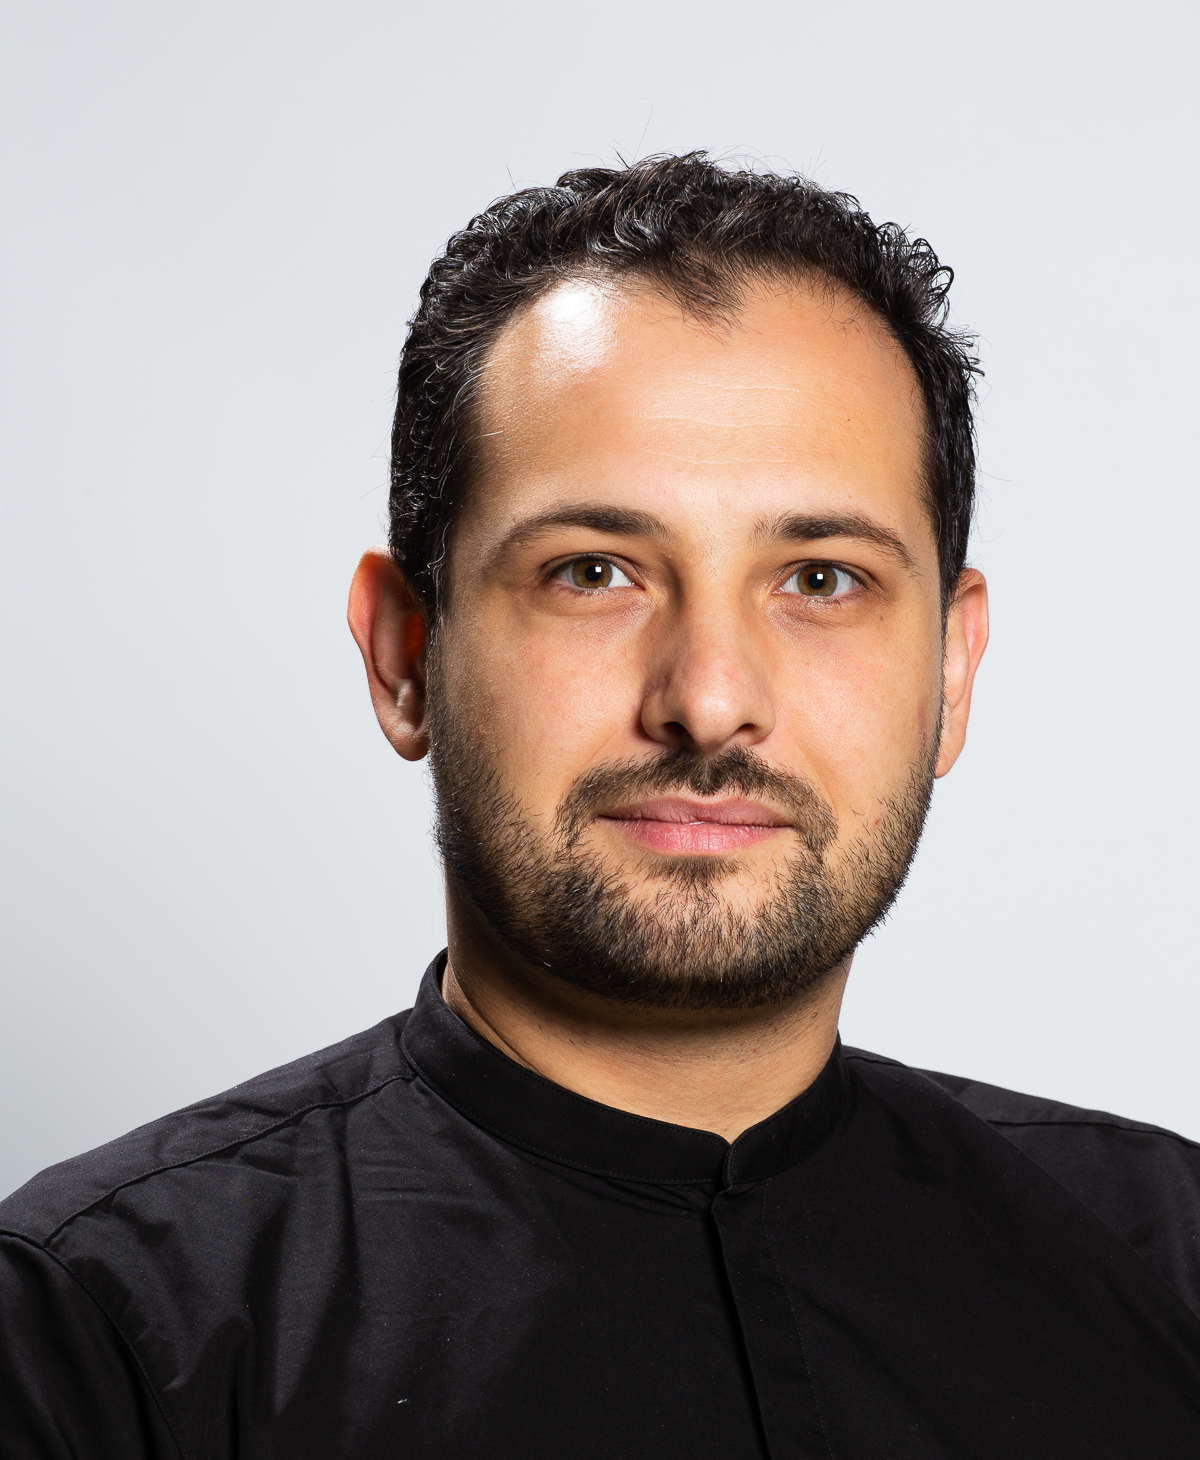
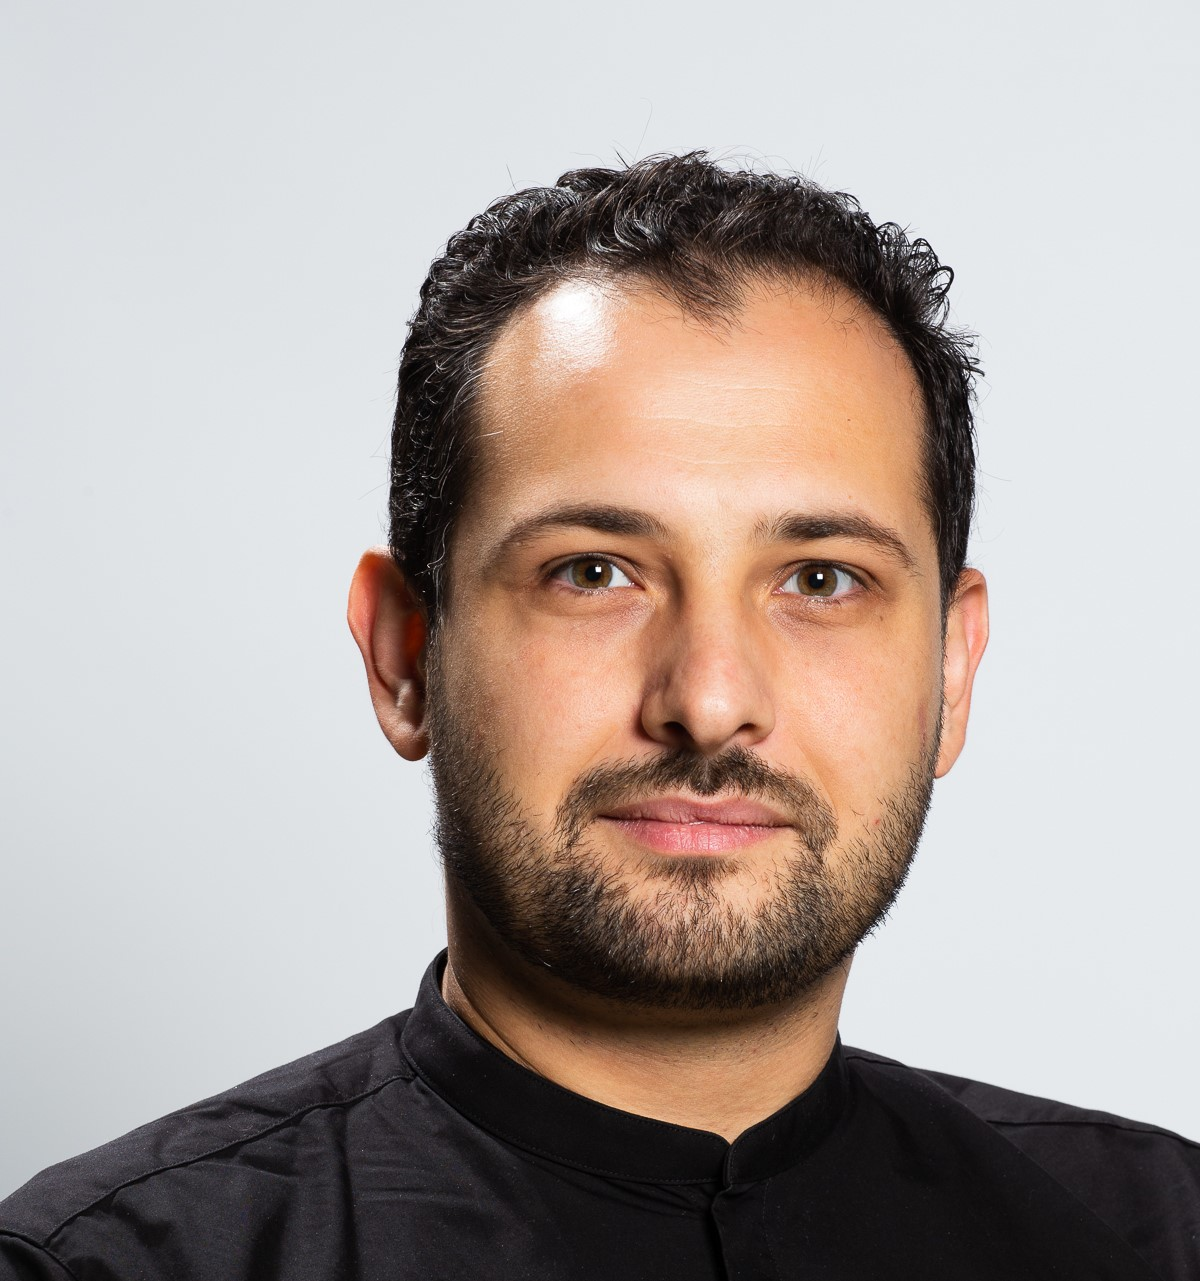
update bg image

diff --git a/index.html b/index.html
@@ -75,7 +75,7 @@
     <!-- Hero Section -->
     <section id="hero" class="hero section dark-background">
 
-      <img src="assets/img/hero-bg.jpg" alt="" data-aos="fade-in" class="">
+      <img src="assets/img/bg-img.jpg" alt="" data-aos="fade-in" class="">
 
       <div class="container d-flex flex-column align-items-center text-center mt-auto">
         <h2 data-aos="fade-up" data-aos-delay="100" class=""> 1st Workshop on Generation of Synthetic Datasets for Information Systems (GenSyn) </h2>
